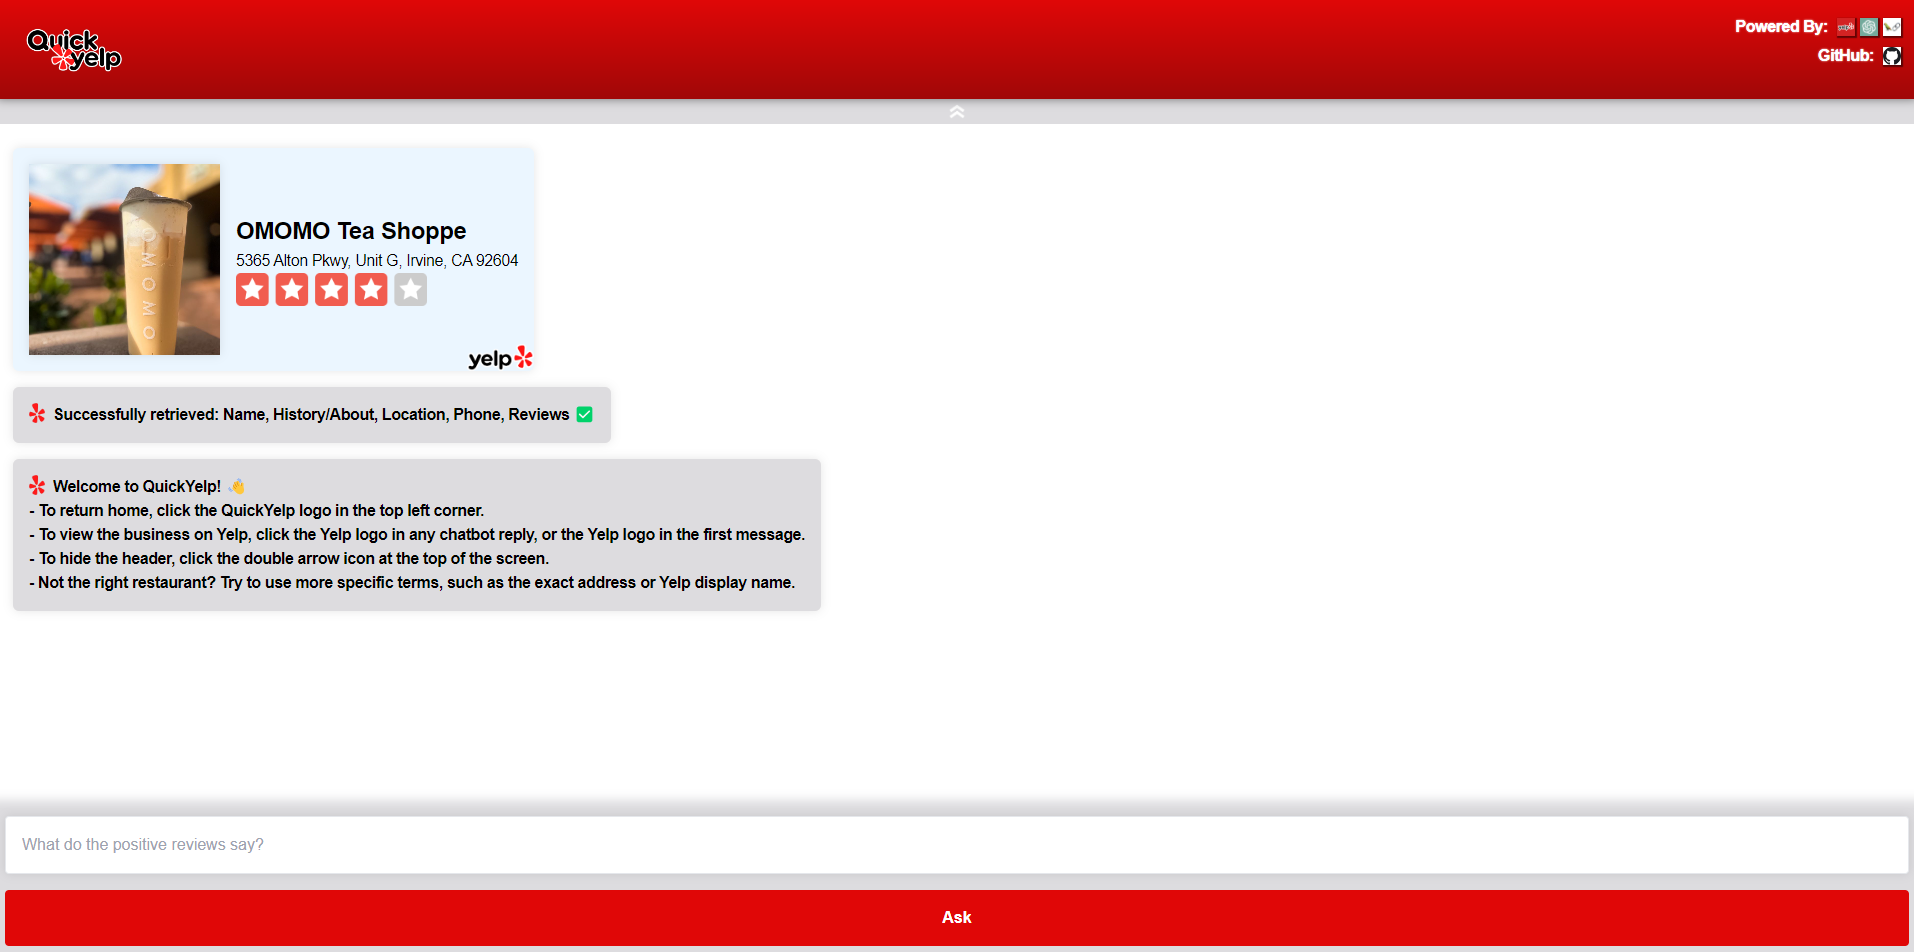
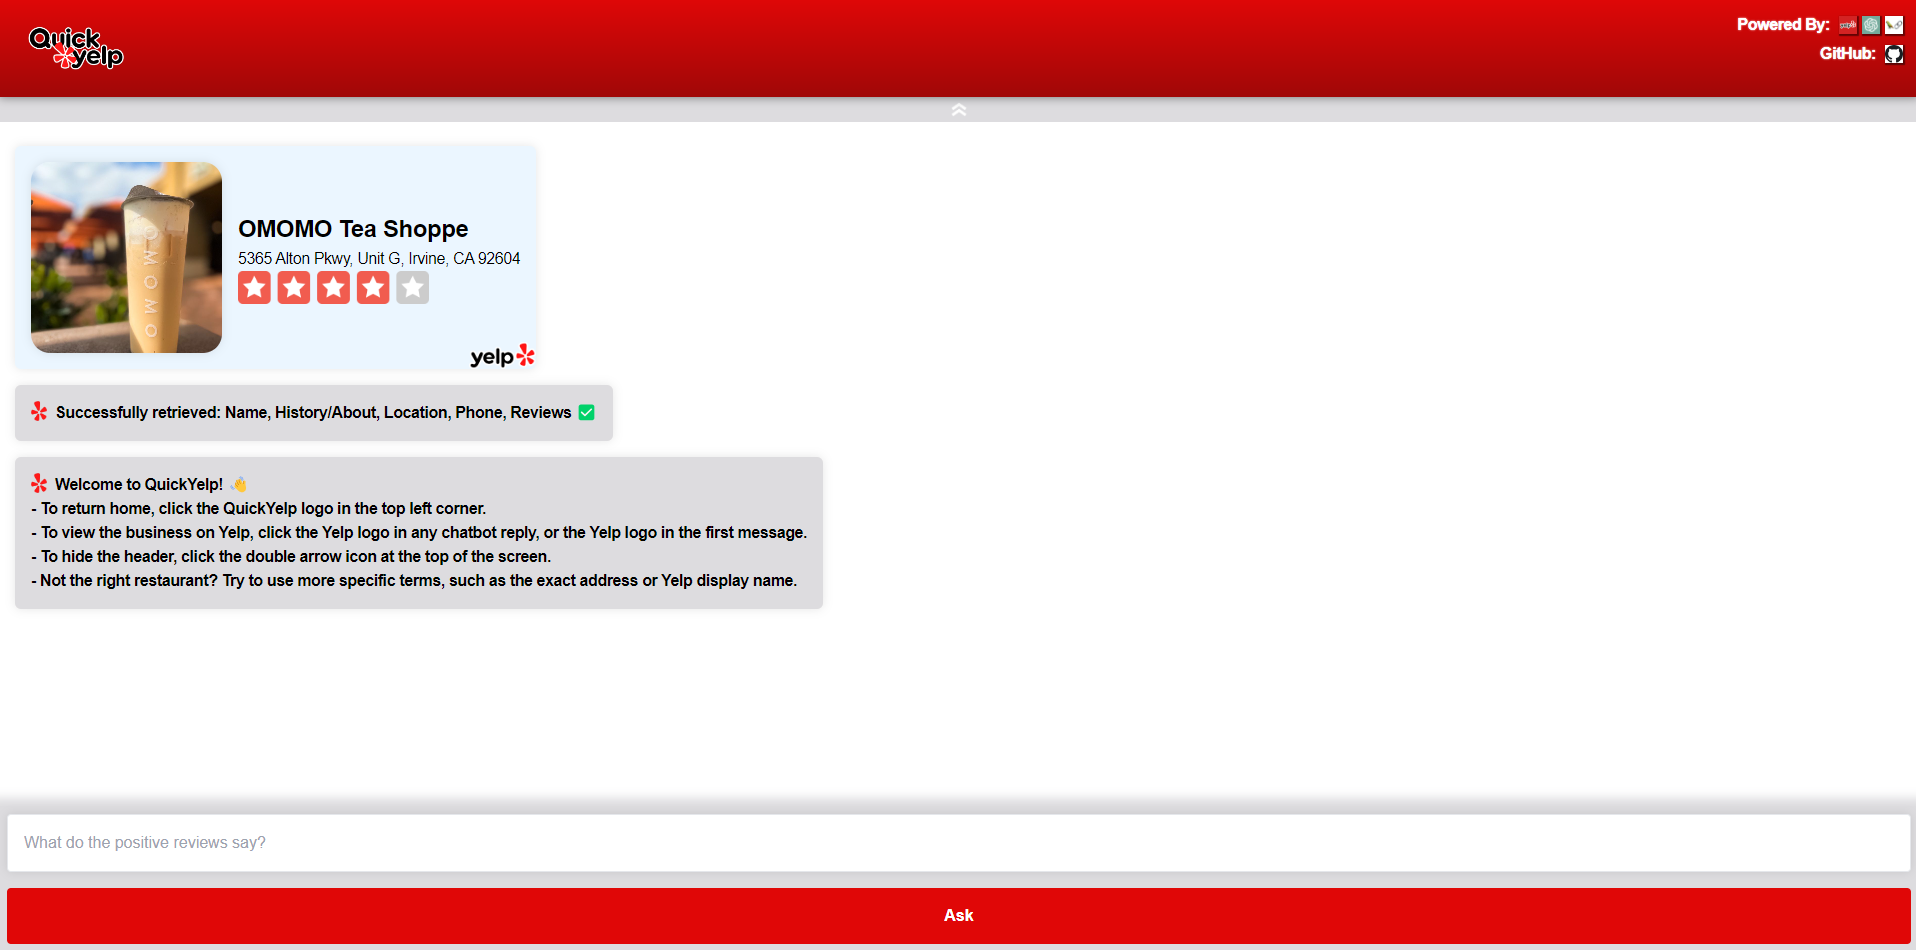
Added global redis chat counter, updated README

diff --git a/static/outputs.css b/static/outputs.css
@@ -866,7 +866,7 @@ border-radius: 5px;
   height: 20vh;
   object-fit: cover;
   box-shadow: rgba(0, 0, 0, 0.1) 0px 0px 10px 0px;
-  border-radius: 5%;
+  border-radius: 2vh;
 }
 
 .business-info {

diff --git a/app.py b/app.py
@@ -36,7 +36,7 @@ app.config['SESSION_KEY_PREFIX'] = 'quickyelp:'
 app.config['SESSION_REDIS'] = redis.StrictRedis(host='127.0.0.1', port=6379, db=0)
 Session(app)
 
-# # PRODUCTION (1/5): Uncomment this for deployment environment
+# # PRODUCTION (1/6): Uncomment this for deployment environment
 # app.config['SECRET_KEY'] = os.environ.get('SECRET_KEY')
 # redis_url = urlparse(os.environ.get("REDIS_URL"))
 # app.config['SESSION_TYPE'] = 'redis'
@@ -90,7 +90,7 @@ def index():
     global DEBUGGING, AI_REPLIES, SAMPLE_LINKS, STARS
     chat_history = []
 
-    # # PRODUCTION (2/5): Rate limiting
+    # # PRODUCTION (2/6): Rate limiting
     # uid = get_unique_uid(request)
     # cur_rate = redis_client.get(uid)
     # if cur_rate and int(cur_rate) >= 5:
@@ -98,7 +98,7 @@ def index():
 
     if request.method == "POST":
 
-        # # PRODUCTION (3/5): Rate limiting
+        # # PRODUCTION (3/6): Rate limiting
         # if not redis_client.exists(uid):
         #     redis_client.setex(uid, 60, 1)
         # else:
@@ -196,11 +196,17 @@ def index():
                         "reviews": {'5': ["Great!"], '4': ["Good!"], '3': ["Decent."]}
                     }
 
+                # Format for business preview
                 business_data["overall_rating"] = "" if not business_data["overall_rating"] else STARS[str(business_data["overall_rating"])]
                 business_data["image_url"] = "" if not business_data["image_url"] else business_data["image_url"]
                 business_data["name"] = "" if not business_data["name"] else business_data["name"]
                 business_data["location"] = "" if not business_data["location"] else ', '.join(business_data["location"])
                 initial_response = craft_initial_response(business_data) if not initial_response else initial_response
+
+                # # PRODUCTION (4/6): Chat count
+                # redis_client.incr('chats')
+                # print("CHAT COUNT:", redis_client.get('chats'))
+
                 return render_template("chat.html", initial_response=initial_response, business_data=business_data)
         
         # Handle chatbot queries
@@ -268,7 +274,7 @@ def index():
         if session.get('review_db'):
             session.pop('review_db')
         
-        # # PRODUCTION (4/5): Uncomment this for deployment, keep commented if testing locally
+        # # PRODUCTION (5/6): Uncomment this for deployment, keep commented if testing locally
         # if redis_client:
         #     if redis_client.exists('info_db'):
         #         redis_client.delete('info_db')
@@ -322,7 +328,7 @@ def cleanup():
         if session.get('review_db'):
             session.pop('review_db')
         
-        # # PRODUCTION (5/5): Uncomment this for deployment, keep commented if testing locally
+        # # PRODUCTION (6/6): Uncomment this for deployment, keep commented if testing locally
         # if redis_client:
         #     if redis_client.exists('info_db'):
         #         redis_client.delete('info_db')

diff --git a/shell.py b/shell.py
@@ -146,7 +146,7 @@ def retrieve_yelp_info(name: str, location: str, web_app: bool = False):
                     else:
                         print("ERROR -- STATUS CODE:", response.status)
                         raise Exception
-                    time.sleep(3)
+                    time.sleep(1)
                 business_data["url"] = yelp_url
                 
             except Exception as e:
@@ -356,7 +356,7 @@ async def run_query(info_qa, review_qa, query):
     }
     llm = openai.ChatCompletion.create(
         model="gpt-3.5-turbo", 
-        temperature=0.5, 
+        temperature=0, 
         messages=[merge_request]
     )
     return llm.choices[0].message.content
@@ -446,8 +446,8 @@ if __name__ == "__main__":
 
         # Query using LangChain's RetrievalQA
         start = time.perf_counter()
-        info_qa = RetrievalQA.from_chain_type(llm=ChatOpenAI(temperature=0.5), chain_type="stuff", retriever=info_db.as_retriever())
-        review_qa = RetrievalQA.from_chain_type(llm=ChatOpenAI(temperature=0.5), chain_type="stuff", retriever=review_db.as_retriever())
+        info_qa = RetrievalQA.from_chain_type(llm=ChatOpenAI(temperature=0), chain_type="stuff", retriever=info_db.as_retriever())
+        review_qa = RetrievalQA.from_chain_type(llm=ChatOpenAI(temperature=0), chain_type="stuff", retriever=review_db.as_retriever())
         end = time.perf_counter()
         print("Elapsed time to load db: ", end-start)
 

diff --git a/README.md b/README.md
@@ -33,7 +33,7 @@ Both chatbot replies are received, then fed once more to OpenAI's GPT-3.5 langua
     - React
 
 # Screenshots 🎥
-Demo Video: https://youtu.be/IsDUfRyTwc8
+Demo Video: https://youtu.be/RuM0cEnhojY
 
 Screenshots as of 8/24/23:
 ![](https://github.com/julian-z/QuickYelp/blob/main/static/images/home.png)
